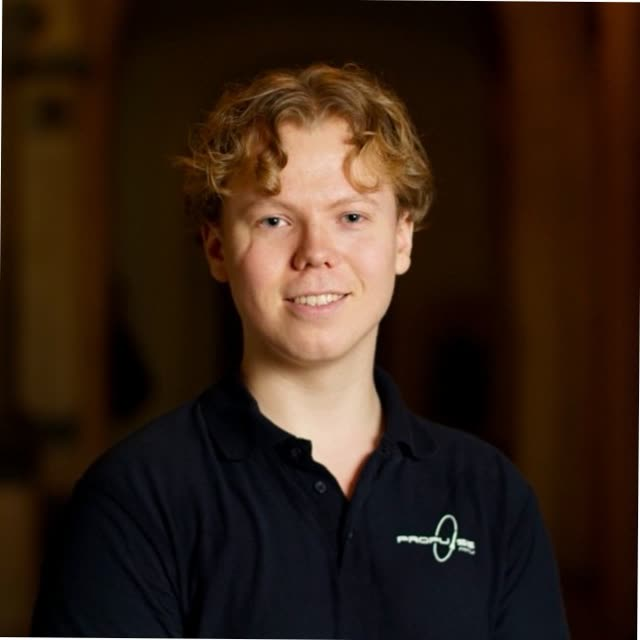
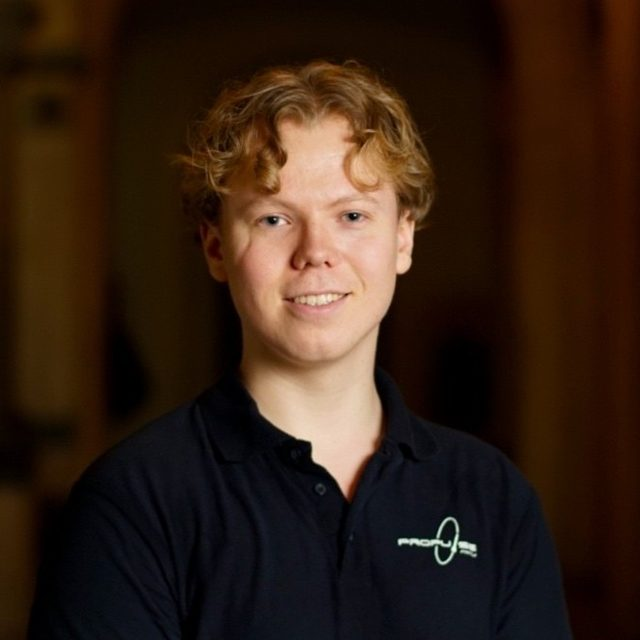
Copy-lens review fixes: honest scope, provenance, print, OG card
- Product lede now states design stage plainly: no hotfire, no flight
  yet; first hotfire / guided flight / intercept named as gates ahead.
- Hero note attributes the engine and stand to Fossekall / Propulse NTNU.
- Stat provenance: FY26 US Army budget request; 24-30 mo scoped to
  PAC-3 MSE. Heritage thrust corrected to kgf (5-8 kN).
- Branded OG card (wordmark + one-liner over the hotfire, site fonts),
  og:image width/height/alt meta.
- Hero clears fixed nav in overflow viewports; print media unhides
  reveal-gated content; launch-card caption scrim to AA contrast;
  ASCII arrows (U+2192 absent from mono subset); tracking normalized
  to the deck ladder; Adrian portrait re-cropped off its white matte.

diff --git a/index.html b/index.html
@@ -14,6 +14,9 @@
   <meta property="og:description" content="Mass-produced Mach 5 ramjet interceptors, built to kill hypersonic ballistic missiles. Trondheim, Norway.">
   <meta property="og:url" content="https://torden.ai/">
   <meta property="og:image" content="https://torden.ai/assets/img/og.jpg">
+  <meta property="og:image:width" content="1200">
+  <meta property="og:image:height" content="630">
+  <meta property="og:image:alt" content="TORDEN wordmark over a liquid rocket engine at full thrust on a horizontal test stand, exhaust plume against a dusk sky.">
   <meta name="twitter:card" content="summary_large_image">
 
   <link rel="icon" href="/favicon.ico" sizes="32x32">
@@ -61,7 +64,7 @@
           <a class="arrow-link" href="#product">See the interceptor</a>
         </div>
       </div>
-      <p class="hero-note" aria-hidden="true">Liquid engine at full thrust<br>on our own test stand</p>
+      <p class="hero-note">Fossekall liquid engine at full thrust<br>on the Propulse NTNU test stand</p>
     </section>
 
     <!-- The gap -->
@@ -81,12 +84,12 @@
           <div class="stat reveal">
             <p class="stat-number">$4M</p>
             <p class="stat-label">per round for the fielded standard, PAC-3 MSE</p>
-            <p class="stat-source">Today&rsquo;s benchmark</p>
+            <p class="stat-source">FY26 US Army budget request</p>
           </div>
           <div class="stat reveal">
             <p class="stat-number">24&ndash;30&nbsp;mo</p>
-            <p class="stat-label">lead times ration today&rsquo;s interceptor stockpiles</p>
-            <p class="stat-source">Fielded systems</p>
+            <p class="stat-label">lead time keeps the fielded standard rationed</p>
+            <p class="stat-source">PAC-3 MSE</p>
           </div>
         </div>
       </div>
@@ -98,7 +101,7 @@
         <div class="section-head reveal">
           <p class="kicker">02 &mdash; Product</p>
           <h2>A Mach&nbsp;5 ramjet interceptor, built for magazine depth.</h2>
-          <p class="section-lede">A solid booster gets it to speed. A liquid ramjet keeps it at Mach&nbsp;5, so it arrives at the intercept with energy to spend in the turn, where manoeuvring ballistic targets defeat coasting interceptors. Designed from day one for mass production.</p>
+          <p class="section-lede">A solid booster gets it to speed. A liquid ramjet keeps it at Mach&nbsp;5, so it arrives at the intercept with energy to spend in the turn, where manoeuvring ballistic targets defeat coasting interceptors. Designed from day one for mass production. The vehicle is at design stage: the ramjet has not been hotfired and no interceptor has flown. First hotfire, first guided flight and first intercept are the gates ahead.</p>
         </div>
         <div class="diagram-panel reveal">
           <div class="diagram-scroll" tabindex="0" role="group" aria-label="Interceptor cutaway diagram, scrollable">
@@ -157,7 +160,7 @@
         <div class="section-head reveal">
           <p class="kicker">03 &mdash; Heritage</p>
           <h2>We have done this before.</h2>
-          <p class="section-lede">Before Torden, our team designed, built and launched three rockets &mdash; Fossekall, Heimdall and Bifrost &mdash; and tested four liquid rocket engines at 500&ndash;800&nbsp;kg of thrust through the Propulse NTNU programme. The propulsion, test discipline and launch operations this company needs already exist in this team.</p>
+          <p class="section-lede">Before Torden, our team designed, built and launched three rockets &mdash; Fossekall, Heimdall and Bifrost &mdash; and tested four liquid rocket engines at 500&ndash;800&nbsp;kgf (5&ndash;8&nbsp;kN) of thrust through the Propulse NTNU programme. The propulsion, test discipline and launch operations this company needs already exist in this team.</p>
         </div>
         <div class="heritage-stats reveal">
           <div class="hstat">

diff --git a/styles.css b/styles.css
@@ -142,6 +142,7 @@ a:not([class]):focus-visible { border-radius: 4px; }
   position: relative;
   min-height: 100vh;
   min-height: 100svh;
+  padding-top: 96px; /* clear the fixed nav when content exceeds viewport height */
   display: flex;
   align-items: flex-end;
   isolation: isolate;
@@ -222,7 +223,7 @@ a:not([class]):focus-visible { border-radius: 4px; }
   color: var(--text-2);
   padding: 14px 4px;
 }
-.arrow-link::after { content: " \2192"; }
+.arrow-link::after { content: " ->"; } /* ASCII: U+2192 is not in the shipped mono subset */
 .arrow-link:hover { color: #ffffff; }
 .hero-note {
   position: absolute;
@@ -317,7 +318,7 @@ a:not([class]):focus-visible { border-radius: 4px; }
   padding-top: 12px;
   font-family: var(--font-mono);
   font-size: 0.65rem;
-  letter-spacing: 0.16em;
+  letter-spacing: 0.18em;
   text-transform: uppercase;
   color: var(--muted-2);
 }
@@ -354,7 +355,7 @@ a:not([class]):focus-visible { border-radius: 4px; }
   flex-wrap: wrap;
   font-family: var(--font-mono);
   font-size: 0.68rem;
-  letter-spacing: 0.16em;
+  letter-spacing: 0.18em;
   text-transform: uppercase;
   color: var(--muted-2);
 }
@@ -365,7 +366,7 @@ a:not([class]):focus-visible { border-radius: 4px; }
             mask-image: linear-gradient(to right, #000 calc(100% - 28px), transparent);
   }
   .diagram-caption::after {
-    content: "Scroll \2192";
+    content: "Scroll ->";
     color: var(--muted-2);
   }
 }
@@ -442,8 +443,8 @@ a:not([class]):focus-visible { border-radius: 4px; }
 .launch-card figcaption {
   position: absolute;
   inset: auto 0 0 0;
-  padding: 18px 20px;
-  background: linear-gradient(to top, rgba(7, 8, 11, 0.85), rgba(7, 8, 11, 0));
+  padding: 28px 20px 18px;
+  background: linear-gradient(to top, rgba(7, 8, 11, 0.94) 0%, rgba(7, 8, 11, 0.78) 55%, rgba(7, 8, 11, 0) 100%);
   display: flex;
   justify-content: space-between;
   align-items: baseline;
@@ -458,7 +459,7 @@ a:not([class]):focus-visible { border-radius: 4px; }
 .launch-tag {
   font-family: var(--font-mono);
   font-size: 0.62rem;
-  letter-spacing: 0.16em;
+  letter-spacing: 0.18em;
   text-transform: uppercase;
   color: var(--muted);
   white-space: nowrap;
@@ -654,7 +655,7 @@ footer {
 .footer-meta {
   font-family: var(--font-mono);
   font-size: 0.65rem;
-  letter-spacing: 0.16em;
+  letter-spacing: 0.18em;
   text-transform: uppercase;
   color: var(--muted-2);
 }
@@ -675,4 +676,8 @@ footer {
   html { scroll-behavior: auto; }
   .js .reveal { opacity: 1; transform: none; transition: none; }
   * { animation: none !important; }
+}
+
+@media print {
+  .js .reveal { opacity: 1 !important; transform: none !important; transition: none !important; }
 }
